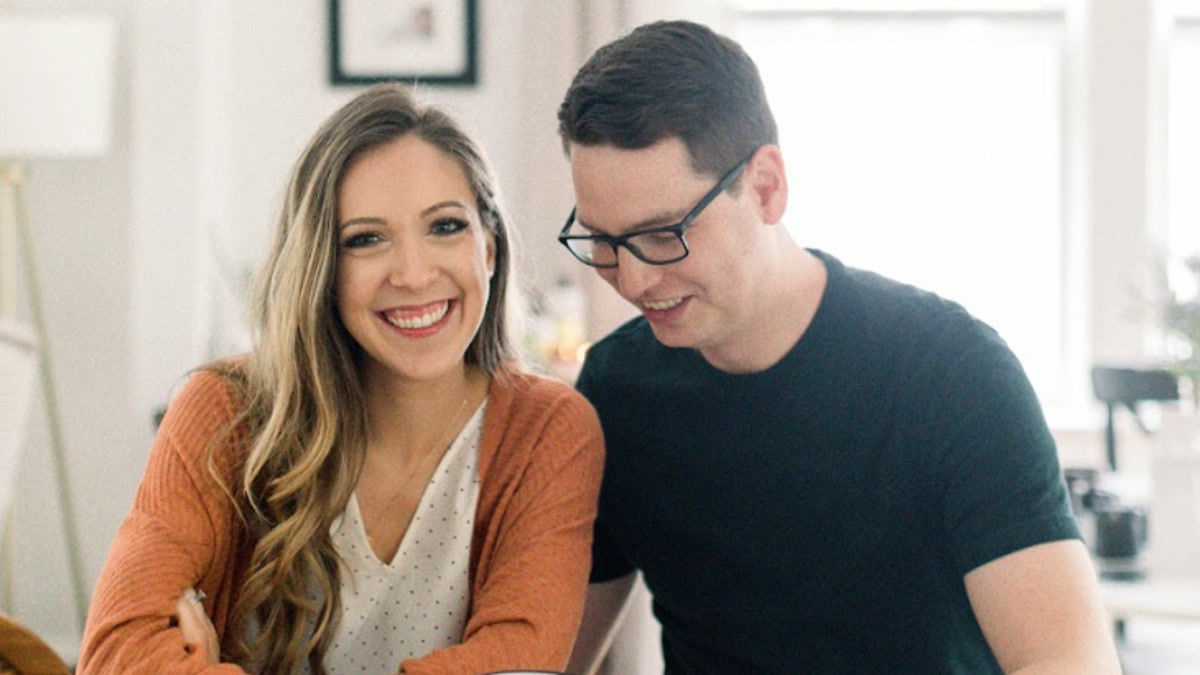
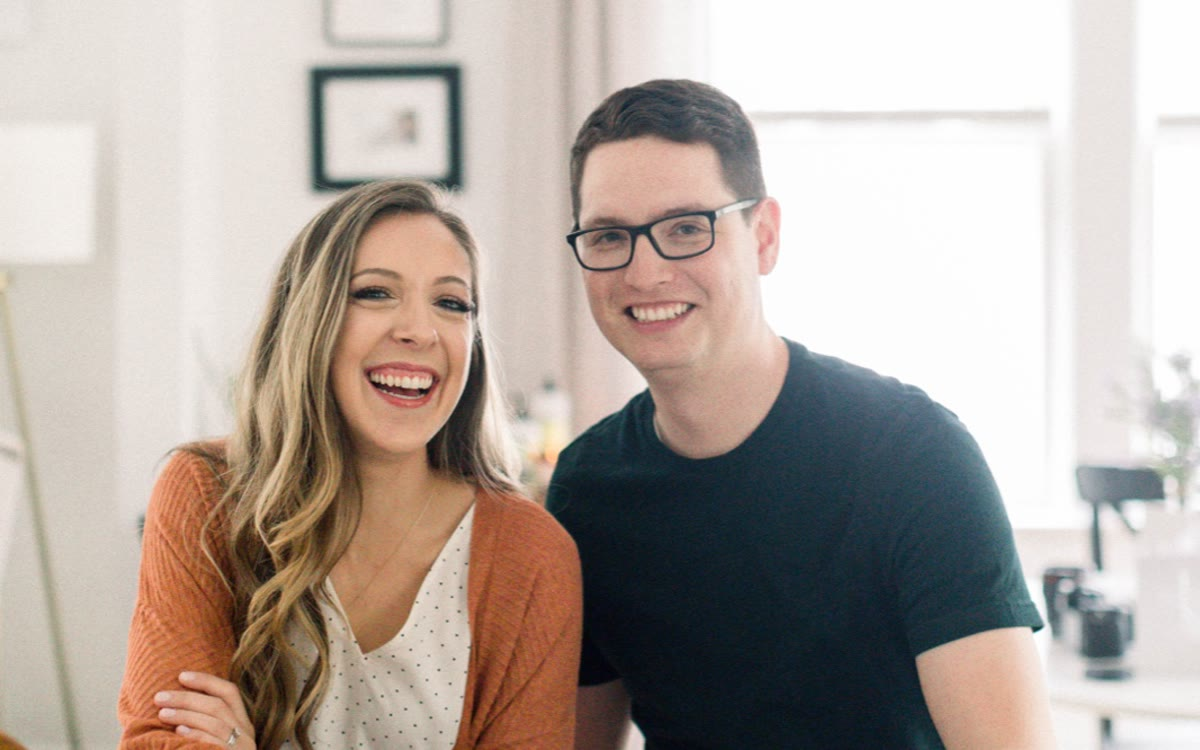
Update Tonehomes card photo and hub card copy
Shipped to production (dpl_9qQgZdq18Euf6V7uMLSWHBVDXErm).

- Tonehomes card: swap peek image to the both-looking-at-camera frame,
  cropped 1200x750 from media/tonehomes/justin-steph-laughing.jpg
- Tonehomes subtext: lead with timing rather than service description,
  and say "us" to match Steph being in the photo
- tone.notes subtext: keep the framing line, add the Blank Space hook
- Newsletter kicker: "Don't miss a tone update."
- launch.json: run vercel dev instead of python3 http.server so the
  local preview honors vercel.json routing and cache headers

diff --git a/index-prev-20260815-1311.html b/index-prev-20260815-1311.html
@@ -722,14 +722,14 @@
       <span class="underline"></span>
       <span class="num">02</span>
       <span class="title">Tonehomes <span class="arrow">→</span></span>
-      <span class="desc">Most people call us a year before they're ready. That's the right time.</span>
+      <span class="desc">Buying or selling in NJ? I'll walk it with you. Morris County and beyond.</span>
     </a>
     <a class="door" href="/notes">
       <span class="door-peek" aria-hidden="true"><img src="media/peek-notes.jpg" alt="Taylor Swift holding a phone in the Blank Space video — read the story"><video muted loop playsinline preload="none" data-src="media/blank-space-stairs.mp4"></video></span>
       <span class="underline"></span>
       <span class="num">03</span>
       <span class="title">tone.notes <span class="arrow">→</span></span>
-      <span class="desc">The stories behind the work. Yep, that's my phone in her hand. I can explain&hellip;</span>
+      <span class="desc">The stories behind the work. That's my phone in her hand.</span>
     </a>
     <a class="door" href="https://nobleposthouse.com?utm_source=tonedad&utm_medium=hub&utm_campaign=door" target="_blank" rel="noopener">
       <span class="door-peek noble-mark" aria-hidden="true"><img src="media/peek-noblepost-card.jpg" alt="Bride and groom laughing — Noblepost, wedding editing for busy studios" loading="lazy"><span class="nm-shine"></span></span>
@@ -741,7 +741,7 @@
   </nav>
   <form class="mini-capture" id="mc-form" novalidate aria-label="Get the stories by email">
     <div class="hp-field" aria-hidden="true"><label>Company<input type="text" name="company" tabindex="-1" autocomplete="off"></label></div>
-    <p class="mini-capture-label">Don't miss a tone update.</p>
+    <p class="mini-capture-label">None of the above? tone.notes was made for you.</p>
     <div class="mini-capture-row">
       <input type="email" id="mc-email" class="signup-input" placeholder="you@email.com" aria-label="Your email" autocomplete="email" required>
       <button type="submit" class="btn">Subscribe <span class="ar" aria-hidden="true">&rarr;</span></button>
